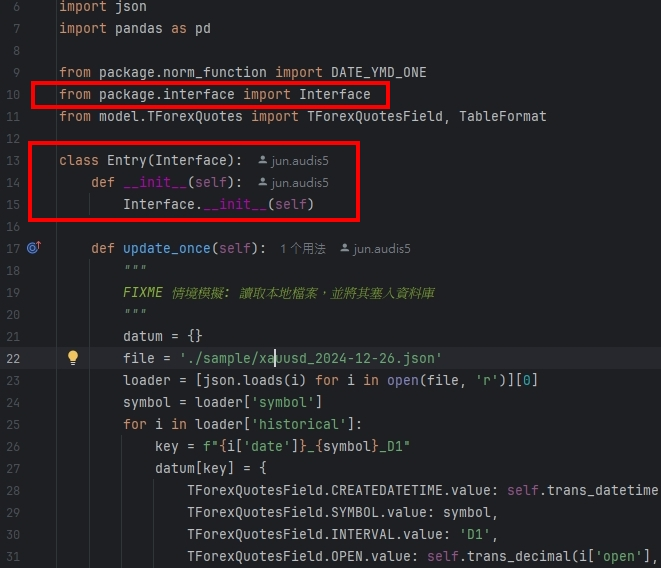
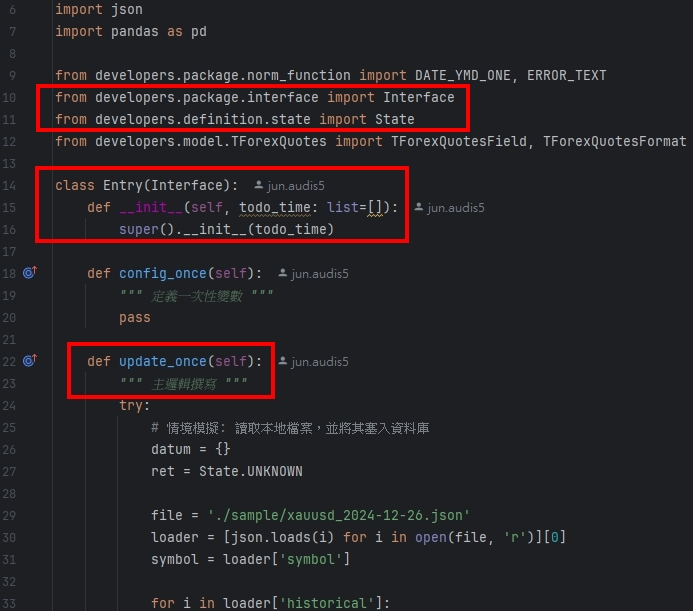
update schedule logic

Changed region(s): [[0.0, 0.0898, 0.9985, 1.0], [0.0605, 0.0, 0.3328, 0.0599], [0.7262, 0.6585, 0.8169, 0.6884]]

diff --git a/developers/package/interface.py b/developers/package/interface.py
@@ -3,23 +3,68 @@
 @author: PC
 Update Time: 2024-12-30
 """
+import time, schedule
+from datetime import datetime
+from schedule import every, run_pending
+
 from developers.definition.state import State
 from developers.package.norm_function import NormLogic
 from developers.package.sql_server import DatabaseLogic
 
 class Interface(NormLogic, DatabaseLogic):
-    def __init__(self):
+    def __init__(self, todo_time: list):
         NormLogic.__init__(self)
         DatabaseLogic.__init__(self)
+        self.var_next_run = []
+        self.settings_schedule(todo_time, self.originate)
+        self.config_once()
         self.originate()
+        self.schedule_run()
 
-    def config_onece(self):
+    def settings_schedule(self, todo_time, function):
+        """
+        * 定時排程設定 *
+            -不使用 todo_time <為空> 或 <註解> 即可
+            -[周一至周日]: 英文字首排序 + 空格 + 欲啟動時間(台灣時間)
+            -字母大寫意味著 <啟動> ; 反之小寫 <不啟動>
+        """
+        for event in todo_time:
+            d = event.split('=')[0]
+            t = event.split('=')[-1]
+            if d[0].upper() == 'M':
+                every().monday.at(t).do(function)
+            if d[1].upper() == 'T':
+                every().tuesday.at(t).do(function)
+            if d[2].upper() == 'W':
+                every().wednesday.at(t).do(function)
+            if d[3].upper() == 'T':
+                every().thursday.at(t).do(function)
+            if d[4].upper() == 'F':
+                every().friday.at(t).do(function)
+            if d[5].upper() == 'S':
+                every().saturday.at(t).do(function)
+            if d[6].upper() == 'S':
+                every().sunday.at(t).do(function)
+
+    def schedule_next_run(self) -> str:
+        timestamp = self.get_datetime_now().timestamp() + schedule.idle_seconds()
+        return datetime.fromtimestamp(timestamp).__str__()
+
+    def schedule_run(self):
+        while True:
+            if self.schedule_next_run() not in self.var_next_run:
+                self.var_next_run += [self.schedule_next_run()]
+                self.log_warning(f'Schedule Next Run: {self.schedule_next_run()}')
+            run_pending()
+            time.sleep(1)
+
+    def config_once(self):
         pass
 
     def update_once(self):
         pass
 
     def originate(self):
-        self.config_onece()
+        self.var_next_run = []
         ret = self.update_once()
         self.log_warning(f'{repr(ret)}')

diff --git a/tests/Entry.py b/tests/Entry.py
@@ -12,26 +12,24 @@ from developers.definition.state import State
 from developers.model.TForexQuotes import TForexQuotesField, TForexQuotesFormat
 
 class Entry(Interface):
-    def __init__(self):
-        super().__init__()
-        # Interface.__init__(self)
-        # self.__class__.__name__
+    def __init__(self, todo_time: list=[]):
+        super().__init__(todo_time)
 
-    def config_onece(self):
+    def config_once(self):
         """ 定義一次性變數 """
         pass
 
     def update_once(self):
         """ 主邏輯撰寫 """
-        # TODO ---  情境模擬: 讀取本地檔案，並將其塞入資料庫 ---
         try:
-
+            # 情境模擬: 讀取本地檔案，並將其塞入資料庫
             datum = {}
             ret = State.UNKNOWN
 
             file = './sample/xauusd_2024-12-26.json'
             loader = [json.loads(i) for i in open(file, 'r')][0]
             symbol = loader['symbol']
+
             for i in loader['historical']:
                 key = f"{i['date']}_{symbol}_D1"
                 datum[key] = {
@@ -49,17 +47,23 @@ class Entry(Interface):
                             table_format=TForexQuotesFormat,
                             save_data=datum)
 
-            """ 查詢資料 """
+            # 查詢資料
             fq_data = self.get_datum(db_name=TForexQuotesField.DB_NAME.value,
                                      table_name=TForexQuotesField.TABLE_NAME.value)
             df = pd.DataFrame(fq_data)
             self.log_info(df)
 
             ret = State.OK
+
         except Exception as e:
             self.log_error(ERROR_TEXT, exc_info=True)
         finally:
             return ret
 
 if __name__ == '__main__':
-    entry = Entry()
+    """
+    功能說明
+        -排程邏輯: 參閱 developers.package.interface <settings_schedule> 方法
+    """
+    todo_time = ['MTWTFss=06:00:00', 'MTWTFss=18:00:00']
+    entry = Entry(todo_time)

diff --git a/developers/package/norm_function.py b/developers/package/norm_function.py
@@ -14,12 +14,16 @@ ERROR_TEXT = 'Error Logic: '
 DATE_YMD_ONE = '%Y-%m-%d'
 DATE_YMD_TWO = '%Y/%m/%d'
 DATE_YMD_3TH = '%Y-%m-%d %H:%M:%S'
+TAIWAN = tz.gettz('Asia/Taipei')
 
 class NormLogic:
     def __init__(self):
         self.session = Session()
         self.logger = None
         self.logger_settings()
+
+    def get_datetime_now(self) -> datetime:
+        return datetime.now().replace(tzinfo=TAIWAN)
 
     def create_folder(self, path: str):
         folder = os.path.exists(path)
@@ -58,11 +62,11 @@ class NormLogic:
 
     def trans_datetime(self, target: str, date_format: str) -> datetime:
         # 轉台灣時間 UTC +8
-        return datetime.strptime(target, date_format).replace(tzinfo=tz.gettz('Asia/Taipei'))
+        return datetime.strptime(target, date_format).replace(tzinfo=TAIWAN)
 
     def trans_timestamp(self, target, change_num: float=0) -> datetime:
         # 轉台灣時間 UTC +8
-        return datetime.fromtimestamp(target + change_num).replace(tzinfo=tz.gettz('Asia/Taipei'))
+        return datetime.fromtimestamp(target + change_num).replace(tzinfo=TAIWAN)
 
     def http_get(self, url: str) -> Response:
         headers = None

diff --git a/README.md b/README.md
@@ -14,16 +14,18 @@
 | 事件 | 敘述 | 更新時間 |
 |:----:|----|:----:|
 | 專案上架 | Database Template | 2024-12-25 |
-| 建立常用函示 | NormFunction.py | 2024-12-28 |
-| 資料表: 模板定義 | 依 TForexQuotes.py 模板畫葫蘆 | 2024-12-28 |
+| 建立常用函示 | developers.package.norm_function | 2024-12-28 |
+| 資料表: 模板定義 | 依 developers.model.TForexQuotes 模板畫葫蘆 | 2024-12-28 |
 | 更新常用函示 | 日誌打印 / 字串處理 / 數值處理 / 爬蟲連線 | 2024-12-28 |
 | 模組化 | 將 SQL 串接 Database 過程模組化，並用繼承方式使用功能 | 2024-12-28 |
 | 套件化 | 將整個功能打包成套件，用安裝方式直接使用該功能 | 2024-12-29 |
 | 優化進入點 | __name__ == '__main__' 移至底層 | 2024-12-30 |
-| 定義運行狀態 | 詳見 package.definition.state | 2024-12-30 |
-| 加入排程邏輯 | 可依據參數定時設定，到點啟動專案 | - |
-| 調整 Merge 邏輯 | 用子方法 ( 插入 / 查詢 / 合併 ) 分別進行，不採用官方 Merge 語法 | - |
+| 定義運行狀態 | 詳見 developers.definition.state | 2024-12-30 |
+| 加入排程邏輯 | 可依據參數定時設定，到點啟動專案 | 2024-12-30 |
 | 查詢資料: 增加可用參數 | 參數時間 / WHERE SQL 條件篩選 | - |
+| 更新底層 | 外圍包大型迴圈，基於回傳狀態判斷是否 Retry | - |
+| 調整 Merge 邏輯 | 用子方法 ( 插入 / 查詢 / 合併 ) 分別進行，不採用官方 Merge 語法 | - |
+
 
 <br>
 
@@ -42,7 +44,7 @@
     pip install -e .
     ```
   - ![03.jpg](/sample/03.jpg)
-- package `sql_account_.py` -> `sql_account.py` 更改欲使用內容
+- developers.package.`sql_account_.py` -> `sql_account.py` 更改欲使用內容
 - 開發其他專案時可以直接引用本套件撰寫物件
 - ![02.jpg](/sample/02.jpg)
 
